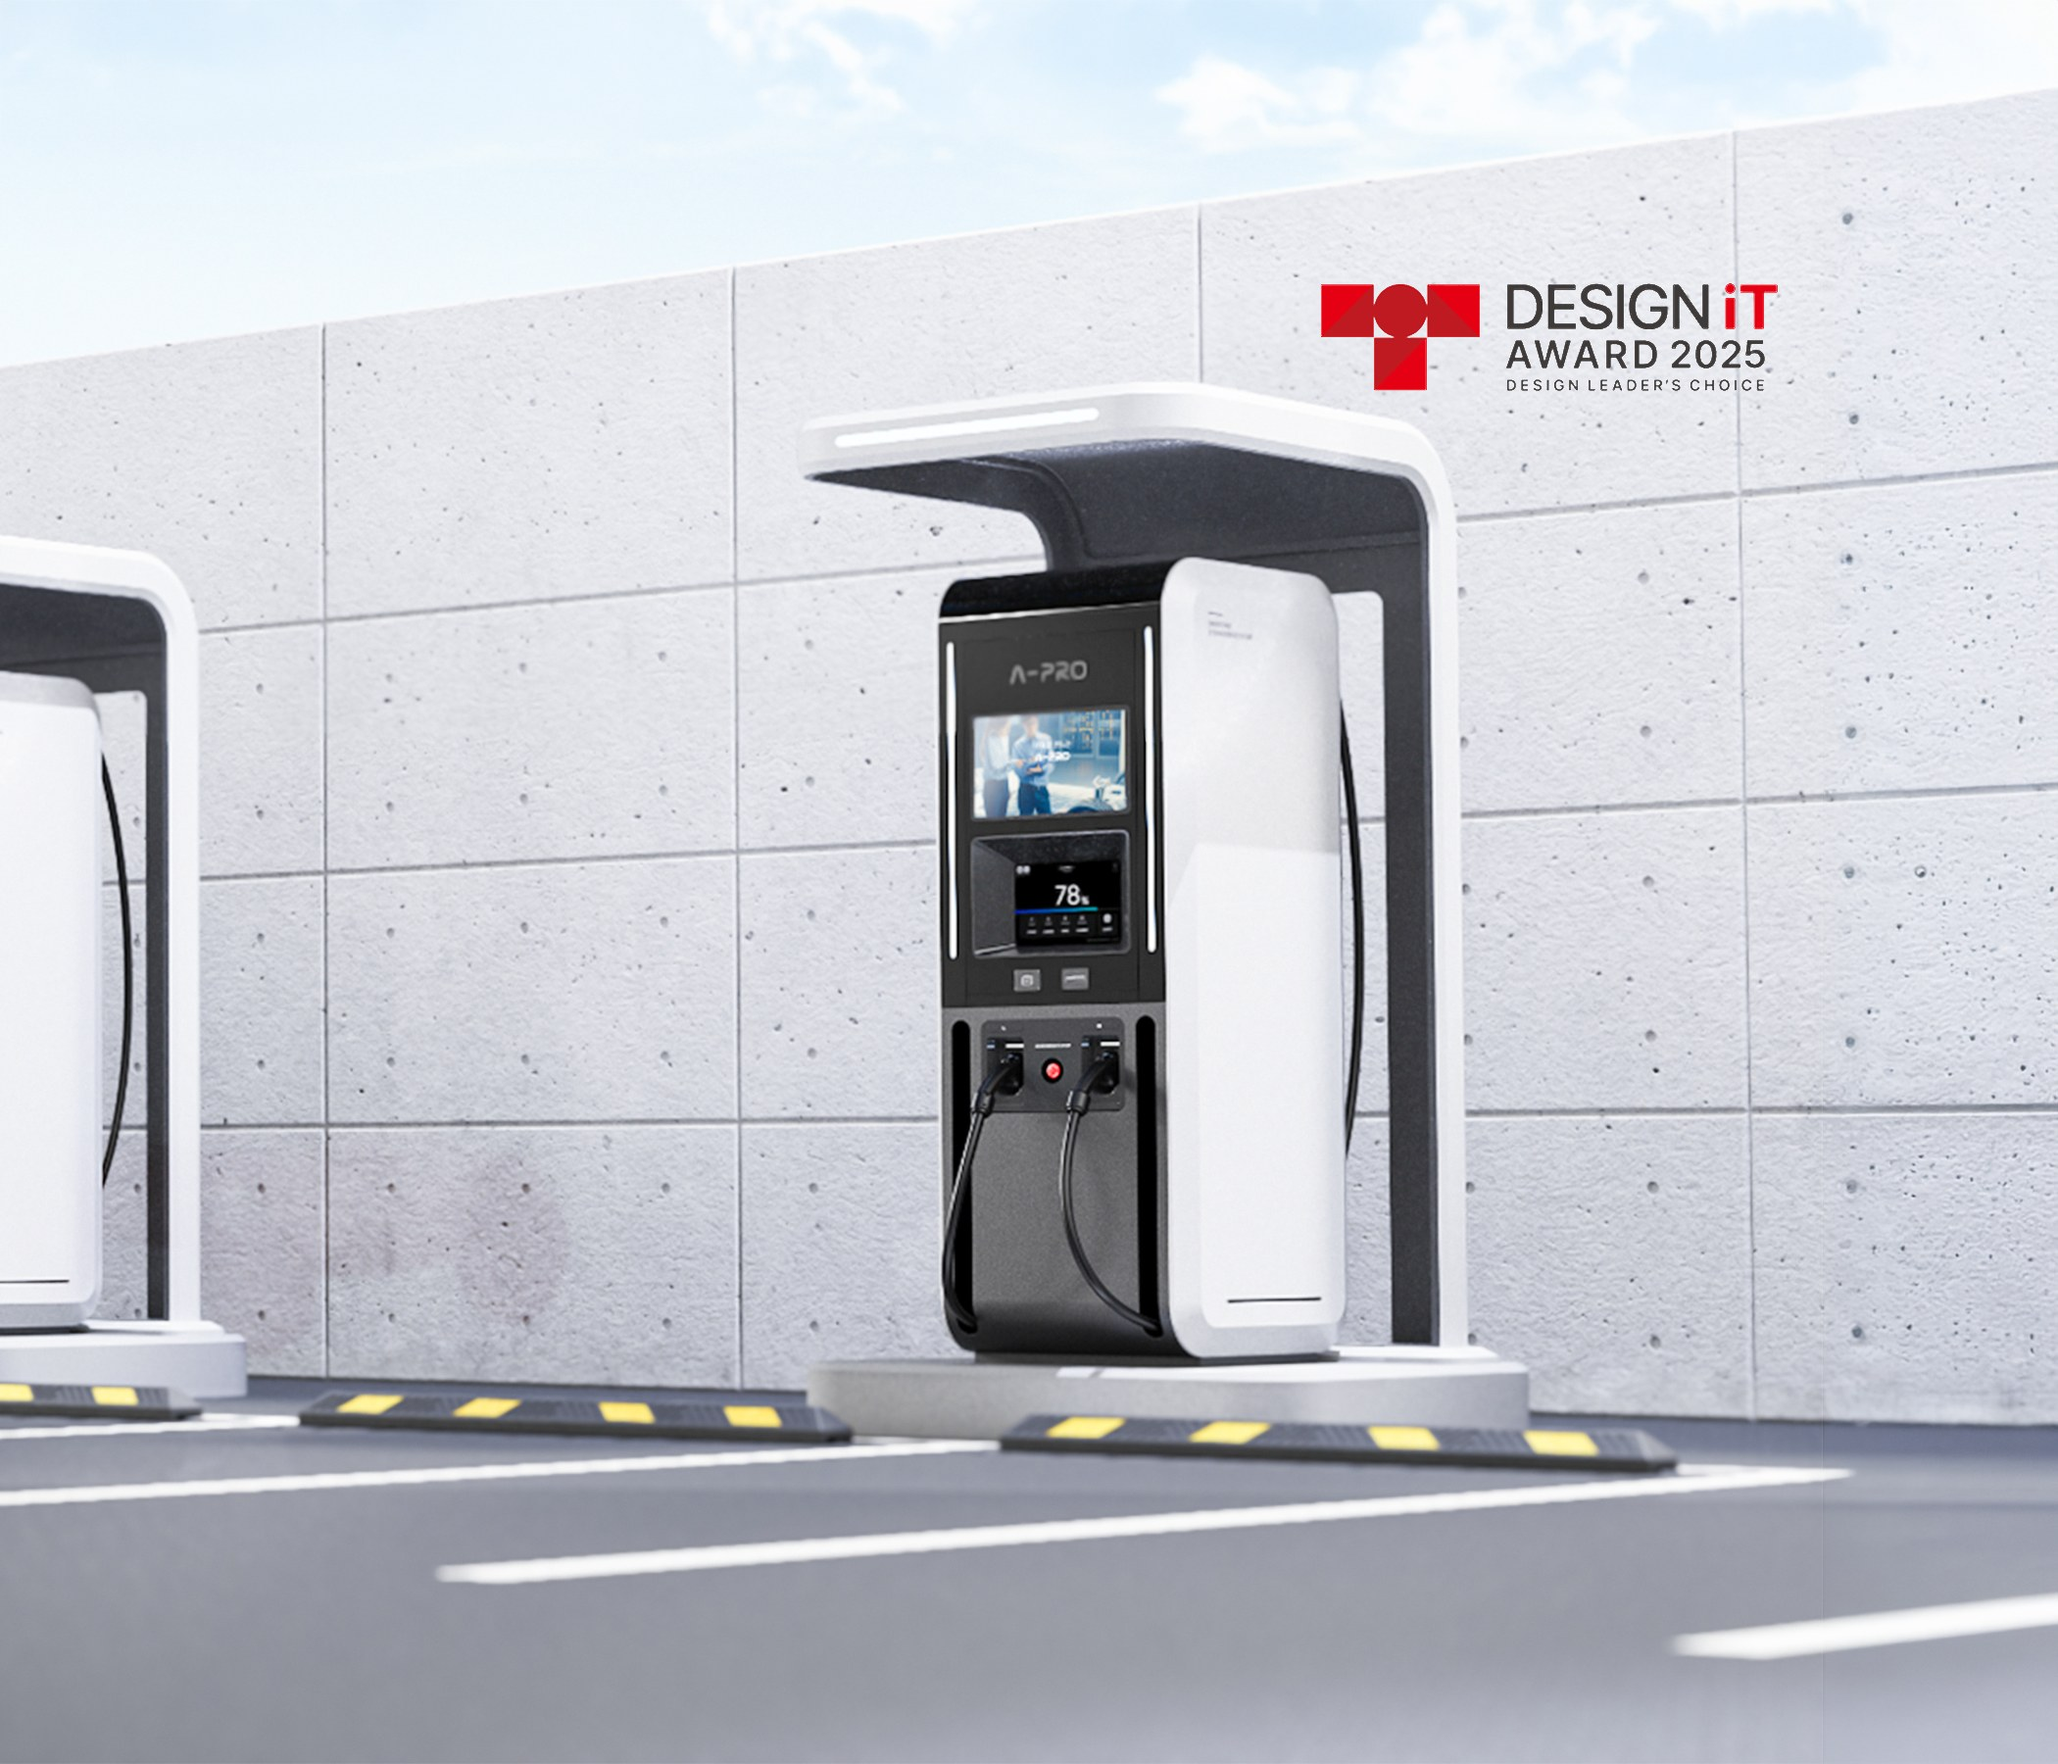
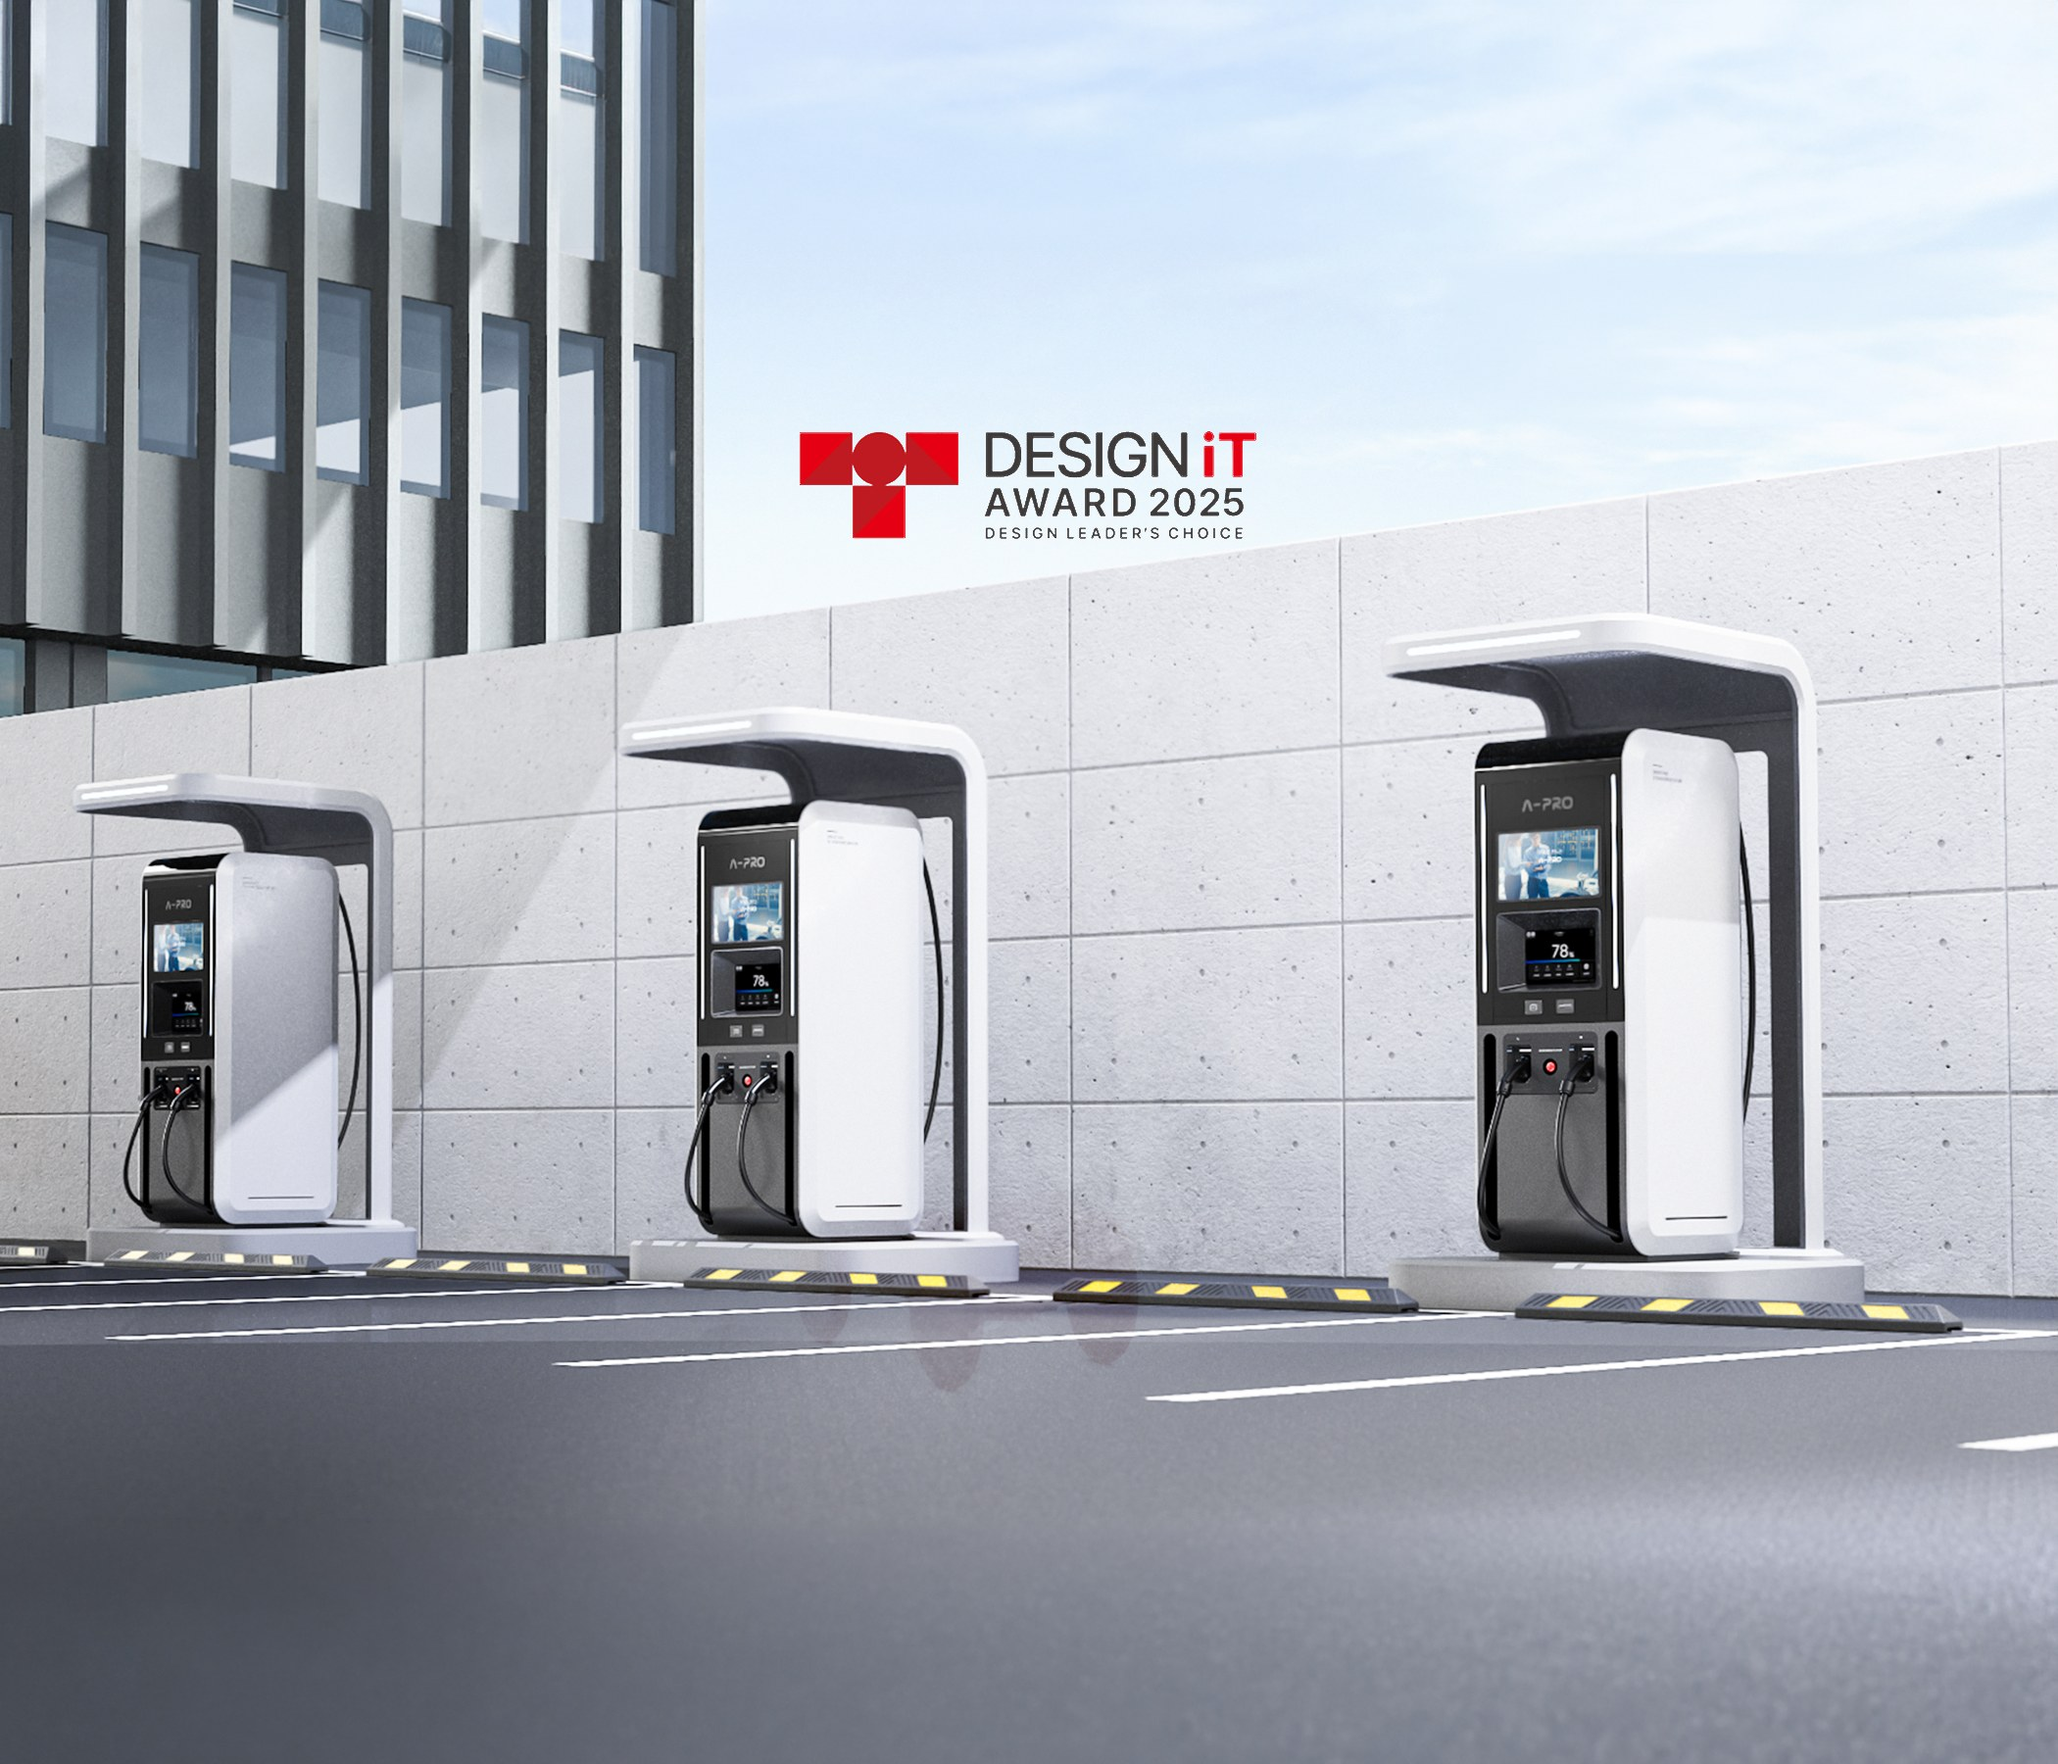
Gray: 급속 충전기 사진을 새것으로 바꾼다
피그마 1148:8228 이 한 대 가까이에서 세 대 늘어선 충전소 전경으로 바뀌었다.
같은 자리(2100×1800)라 걸기만 하면 된다.

대체글도 사진을 따라 고쳤다 — 보이지 않는 글이지만 사진이 달라지면 같이
달라져야 한다.

diff --git a/apro-gray/business-ai-a1.html b/apro-gray/business-ai-a1.html
@@ -911,7 +911,7 @@
           </div>
         </figure>
         <figure class="sf-ph has-img is-shot" data-for="sf02-2"><img src="../assets/ev-performance-report.png" alt="배터리 진단 결과를 항목별 백분율과 레이더 도표로 보여 주는 화면" decoding="async" /></figure>
-        <figure class="sf-ph has-img" data-for="sf03-1"><img src="../assets/ev-fast-charger.jpg" alt="에이프로 전기자동차 급속 충전기" decoding="async" /></figure>
+        <figure class="sf-ph has-img" data-for="sf03-1"><img src="../assets/ev-fast-charger.jpg" alt="건물 앞 충전소에 나란히 선 에이프로 전기자동차 급속 충전기 세 대" decoding="async" /></figure>
         <figure class="sf-ph" data-for="sf03-2"><span>도표 or 이미지</span></figure>
         <figure class="sf-ph has-img" data-for="sf04-1"><img src="../assets/ev-controller.jpg" alt="제어기를 얹은 전기자동차 구동 플랫폼" decoding="async" /></figure>
         <figure class="sf-ph" data-for="sf04-2"><span>도표 or 이미지</span></figure>
